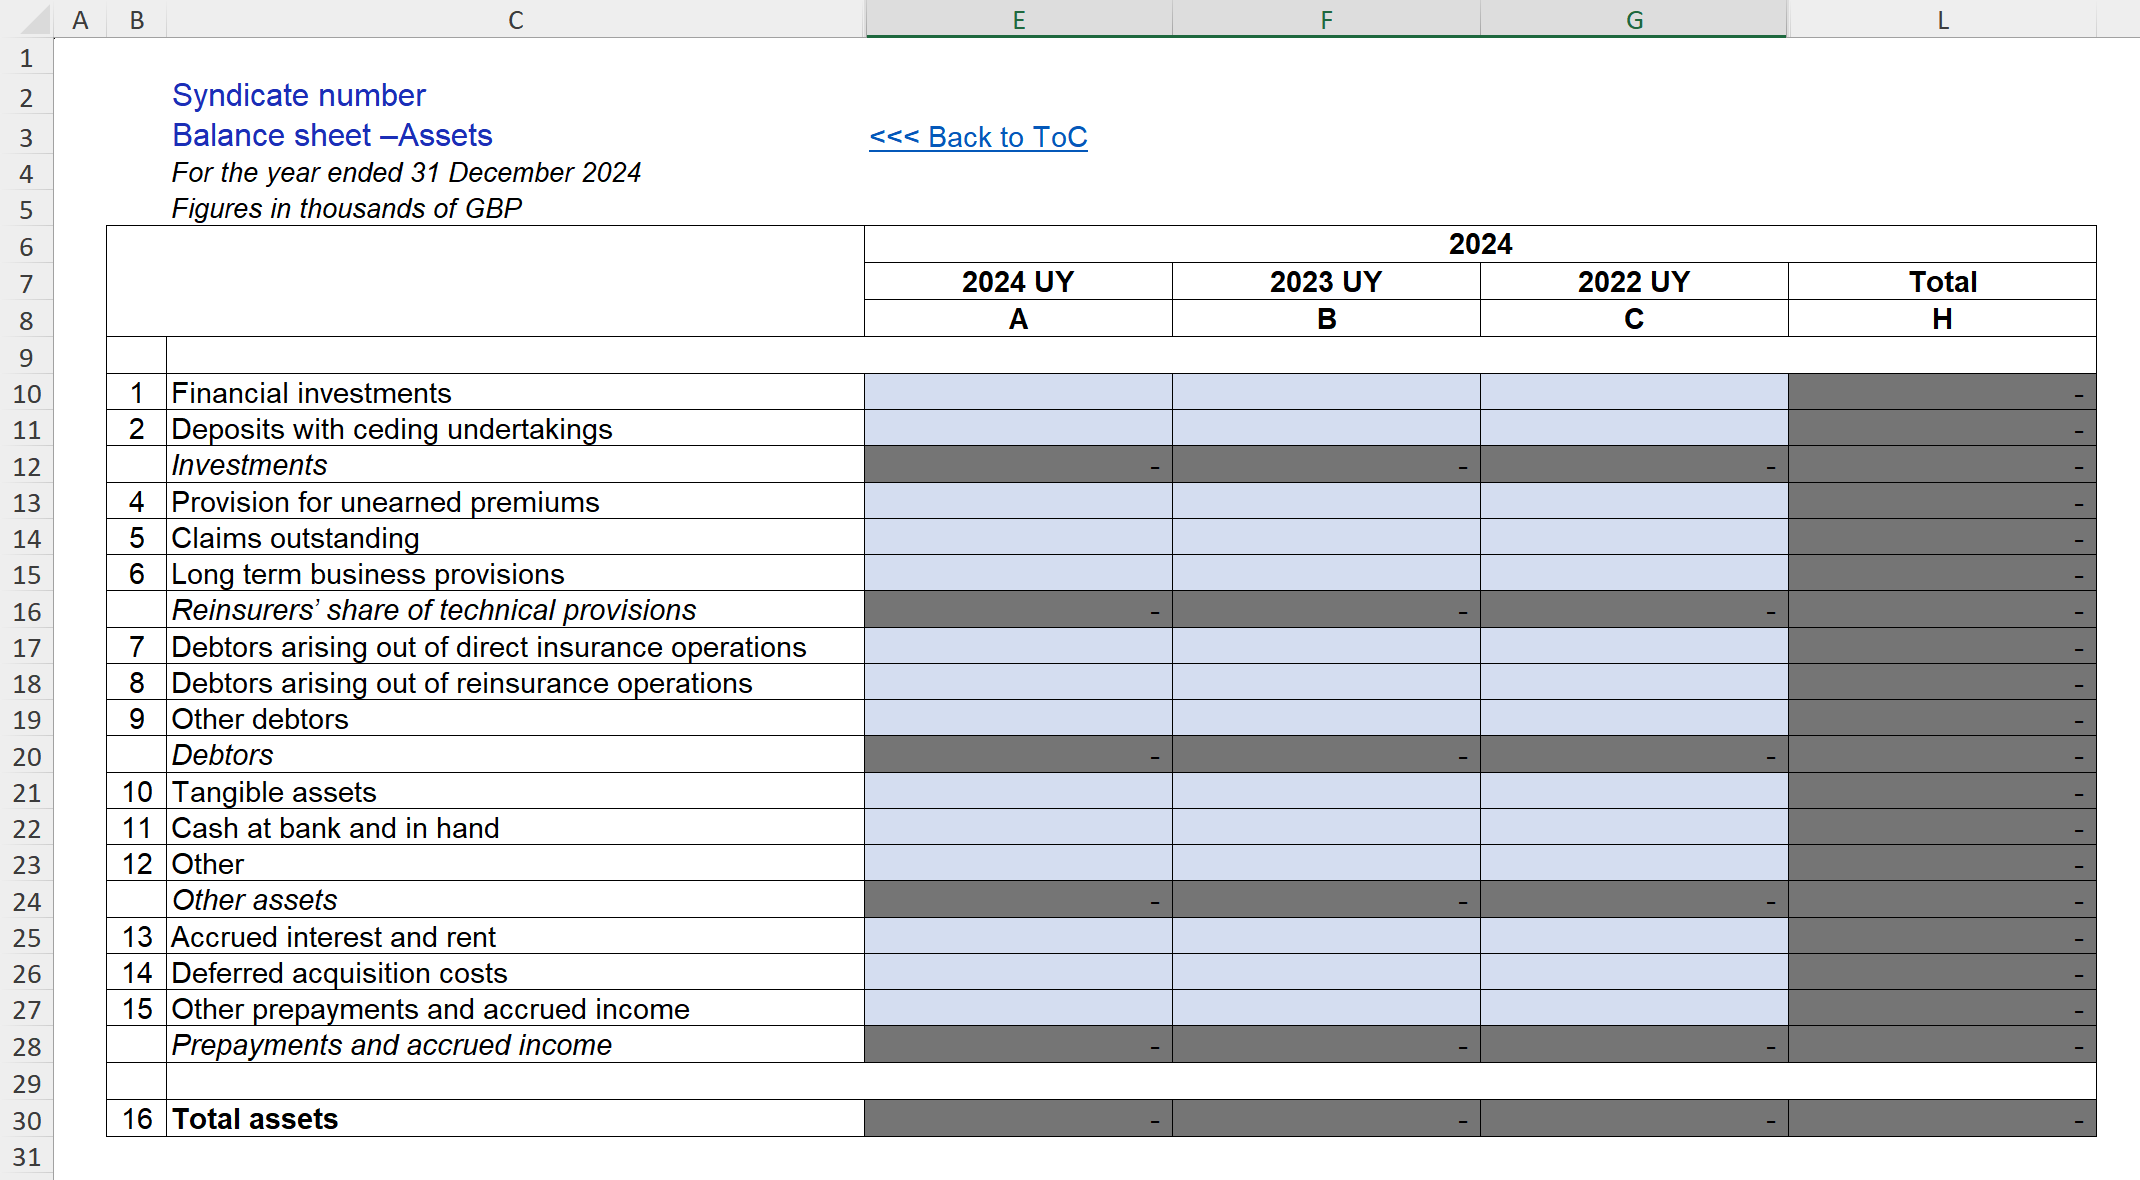
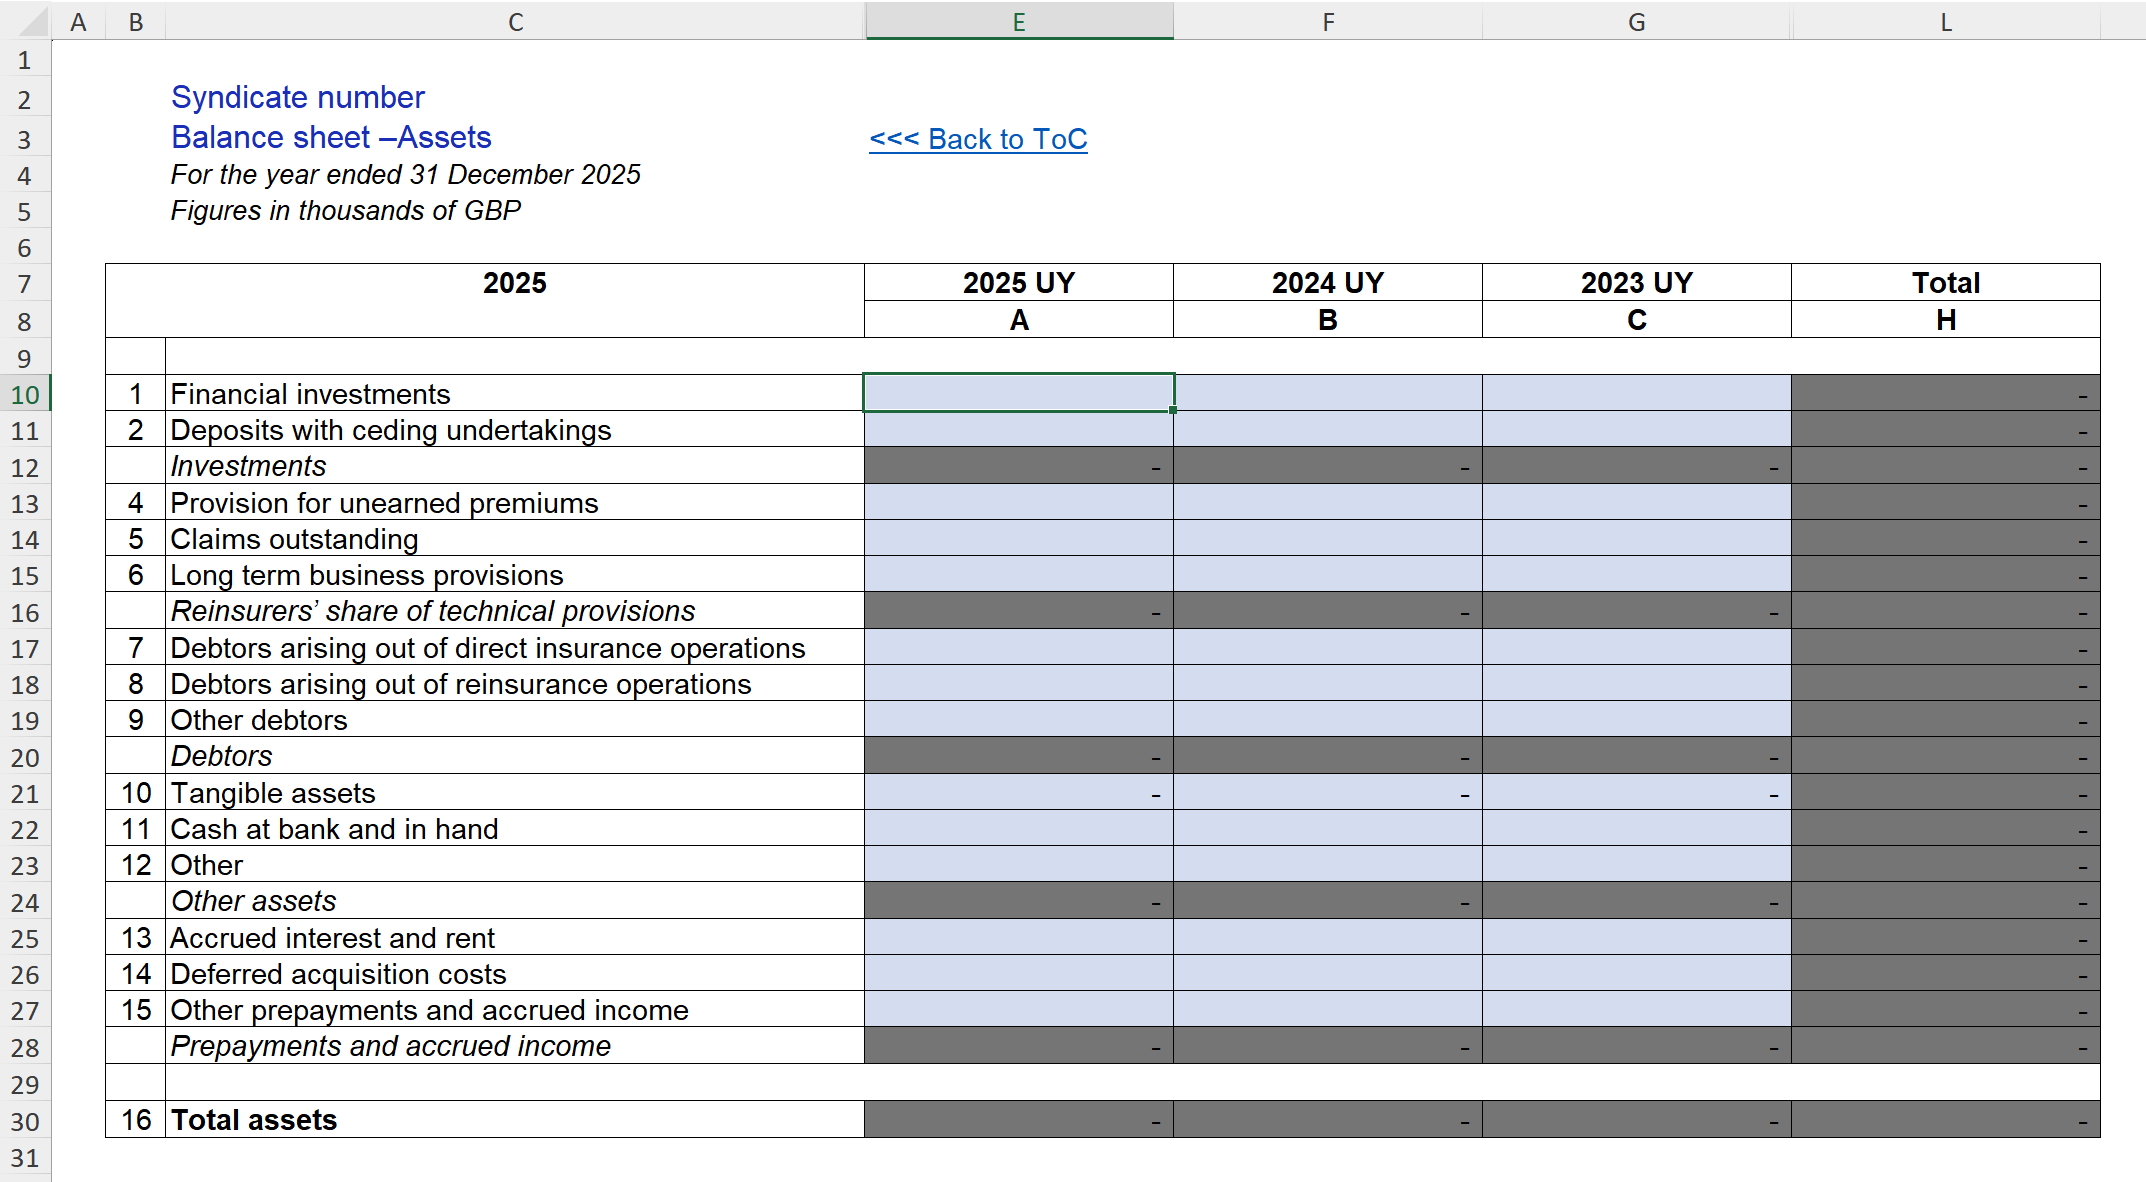
Update Lloyd's Schedule 3 screenshots and text

diff --git a/products/lloyds-schedule-3/index.html b/products/lloyds-schedule-3/index.html
@@ -17,7 +17,7 @@ hero:
   subtitle: "Convert a completed Schedule&nbsp;3 Excel template file to XBRL in seconds. Join the financial firms already benefiting from the power and simplicity of Olive Octagon."
   primary_button:
     text: "Request Free Trial →"
-    url: "Request Free Trial"
+    action: "Request Free Trial"
   secondary_button:
     text: "Schedule Demo"
     action: "Schedule Demo"
@@ -81,6 +81,7 @@ pricing:
         - "XBRL import to Excel functionality"
         - "Unlimited user accounts"
         - "Uses the standard Lloyd's Excel templates"
+        - "Supports both v2.3 and v2.4 templates"
         - "Priority support"
         - "Advanced XBRL-XML verification"
         - "Dedicated account manager"
@@ -148,15 +149,19 @@ screenshots:
       alt: "Screenshot of the Convert to XBRL step"
       title: "Convert to XBRL"
       description: "To convert your completed template file to the final XBRL output file, you simply upload it into your browser and press the relevant button. Remember, all processing is done in your browser - no data is sent to our servers."
+    - file: "import-xbrl.png"
+      alt: "Screenshot of the XBRL import step"
+      title: "Convert XBRL to Excel"
+      description: "You can import an XBRL or iXBRL file back into the standard Lloyd's Excel template file, allowing you to verify that your XBRL file is complete and valid. This also serves as an independent check on third-party produced files for peace of mind."
 
 # FAQ
 faq:
   title: "Frequently Asked Questions"
   questions:
     - question: "When is the next Schedule&nbsp;3 reporting deadline?"
-      answer: "The first Schedule&nbsp;3 XBRL reporting effective date is 31&nbsp;December 2025 and the deadline for uploading to the CoreFiling portal is 5&nbsp;March 2026."
+      answer: "The first Schedule&nbsp;3 XBRL reporting effective date is 31&nbsp;December 2025 and the deadline for uploading to the CoreFiling portal is Thursday 5&nbsp;March 2026. For those syndicates impacted by the v2.4 template release, the deadline has been extended to Friday 13&nbsp;March 2026."
     - question: "How does Olive Octagon's Schedule&nbsp;3 Reporting tool benefit my business?"
-      answer: "Our tool converts the Lloyd's Excel template files into submission-ready reports in seconds, reducing errors and saving time. This allows you to focus on preparing your business data while meeting the technical reporting requirements."
+      answer: "Our tool converts the Lloyd's Excel template files (either v2.3 or v2.4) into submission-ready reports in seconds, reducing errors and saving time. This allows you to focus on preparing your business data while meeting the technical reporting requirements."
     - question: "Is Olive Octagon's Schedule&nbsp;3 Reporting tool secure?"
       answer: "Absolutely. Our solution runs directly in your browser, ensuring that your sensitive data never leaves your machine. This approach helps maintain a high level of data security and privacy."
 
@@ -166,10 +171,10 @@ details:
   cards:
     - title: "Reporting Taxonomy"
       icon: '<svg class="w-8 h-8 text-white" fill="currentColor" viewBox="0 0 16 16"><path fill-rule="evenodd" d="M6 3.5A1.5 1.5 0 0 1 7.5 2h1A1.5 1.5 0 0 1 10 3.5v1A1.5 1.5 0 0 1 8.5 6v1H14a.5.5 0 0 1 .5.5v1a.5.5 0 0 1-1 0V8h-5v.5a.5.5 0 0 1-1 0V8h-5v.5a.5.5 0 0 1-1 0v-1A.5.5 0 0 1 2 7h5.5V6A1.5 1.5 0 0 1 6 4.5zM8.5 5a.5.5 0 0 0 .5-.5v-1a.5.5 0 0 0-.5-.5h-1a.5.5 0 0 0-.5.5v1a.5.5 0 0 0 .5.5zM0 11.5A1.5 1.5 0 0 1 1.5 10h1A1.5 1.5 0 0 1 4 11.5v1A1.5 1.5 0 0 1 2.5 14h-1A1.5 1.5 0 0 1 0 12.5zm1.5-.5a.5.5 0 0 0-.5.5v1a.5.5 0 0 0 .5.5h1a.5.5 0 0 0 .5-.5v-1a.5.5 0 0 0-.5-.5zm4.5.5A1.5 1.5 0 0 1 7.5 10h1a1.5 1.5 0 0 1 1.5 1.5v1A1.5 1.5 0 0 1 8.5 14h-1A1.5 1.5 0 0 1 6 12.5zm1.5-.5a.5.5 0 0 0-.5.5v1a.5.5 0 0 0 .5.5h1a.5.5 0 0 0 .5-.5v-1a.5.5 0 0 0-.5-.5zm4.5.5a1.5 1.5 0 0 1 1.5-1.5h1a1.5 1.5 0 0 1 1.5 1.5v1a1.5 1.5 0 0 1-1.5 1.5h-1a1.5 1.5 0 0 1-1.5-1.5zm1.5-.5a.5.5 0 0 0-.5.5v1a.5.5 0 0 0 .5.5h1a.5.5 0 0 0 .5-.5v-1a.5.5 0 0 0-.5-.5z"/></svg>'
-      content: '<p>Schedule&nbsp;3 data is reported using <a href="https://www.lloyds.com/market-resources/syndicate-accounts-and-financial-reporting#Specifications" target="_blank" rel="noopener" class="text-brand hover:text-brand-dark underline">Lloyd’s XBRL Taxonomy 2025 V2.0</a>.</p><p>Note that this version of the taxonomy was published on 1&nbsp;December 2025 and is different from the version used for the 2024 annual Syndicate Accounts iXBRL reports.</p>'
-    - title: "Common Issues"
+      content: '<p>Schedule&nbsp;3 data is reported using <a href="https://www.lloyds.com/market-resources/syndicate-accounts-and-financial-reporting#Specifications" target="_blank" rel="noopener" class="text-brand hover:text-brand-dark underline">Lloyd’s XBRL Taxonomy 2025 V2.1</a>.</p><p>Note that this version of the taxonomy was published on 12&nbsp;February 2026 and is different from the version used for the 2025 annual Syndicate Accounts iXBRL reports (which stays on V2.0).</p>'
+    - title: "Template version 2.3 vs 2.4"
       icon: '<svg class="w-8 h-8 text-white" fill="currentColor" viewBox="0 0 16 16"><path d="M12.096 6.223A5 5 0 0 0 13 5.698V7c0 .289-.213.654-.753 1.007a4.5 4.5 0 0 1 1.753.25V4c0-1.007-.875-1.755-1.904-2.223C11.022 1.289 9.573 1 8 1s-3.022.289-4.096.777C2.875 2.245 2 2.993 2 4v9c0 1.007.875 1.755 1.904 2.223C4.978 15.71 6.427 16 8 16c.536 0 1.058-.034 1.555-.097a4.5 4.5 0 0 1-.813-.927Q8.378 15 8 15c-1.464 0-2.766-.27-3.682-.687C3.356 13.875 3 13.373 3 13v-1.302c.271.202.58.378.904.525C4.978 12.71 6.427 13 8 13h.027a4.6 4.6 0 0 1 0-1H8c-1.464 0-2.766-.27-3.682-.687C3.356 10.875 3 10.373 3 10V8.698c.271.202.58.378.904.525C4.978 9.71 6.427 10 8 10q.393 0 .774-.024a4.5 4.5 0 0 1 1.102-1.132C9.298 8.944 8.666 9 8 9c-1.464 0-2.766-.27-3.682-.687C3.356 7.875 3 7.373 3 7V5.698c.271.202.58.378.904.525C4.978 6.711 6.427 7 8 7s3.022-.289 4.096-.777M3 4c0-.374.356-.875 1.318-1.313C5.234 2.271 6.536 2 8 2s2.766.27 3.682.687C12.644 3.125 13 3.627 13 4c0 .374-.356.875-1.318 1.313C10.766 5.729 9.464 6 8 6s-2.766-.27-3.682-.687C3.356 4.875 3 4.373 3 4"/><path d="M16 12.5a3.5 3.5 0 1 1-7 0 3.5 3.5 0 0 1 7 0m-3.5-2a.5.5 0 0 0-.5.5v1.5a.5.5 0 0 0 1 0V11a.5.5 0 0 0-.5-.5m0 4a.5.5 0 1 0 0-1 .5.5 0 0 0 0 1"/></svg>'
-      content: "<p>We are currently in contact with Lloyd's in order to get clarification on a few technical questions we have regarding reporting. We will update the FAQs in due course.</p>"
+      content: "<p>If you report overseas deposits as 'other assets' and credit/impairment disclosures are not required (based on your accounting policy and materiality), you can continue using the v2.3 template and do not need to update to v2.4.</p>"
     - title: "Reporting Process"
       icon: '<svg class="w-8 h-8 text-white" fill="currentColor" viewBox="0 0 16 16"><path fill-rule="evenodd" d="M8 5.5a.5.5 0 0 1 .5.5v1.5H10a.5.5 0 0 1 0 1H8.5V10a.5.5 0 0 1-1 0V8.5H6a.5.5 0 0 1 0-1h1.5V6a.5.5 0 0 1 .5-.5"/><path d="M3 0h10a2 2 0 0 1 2 2v12a2 2 0 0 1-2 2H3a2 2 0 0 1-2-2v-1h1v1a1 1 0 0 0 1 1h10a1 1 0 0 0 1-1V2a1 1 0 0 0-1-1H3a1 1 0 0 0-1 1v1H1V2a2 2 0 0 1 2-2"/><path d="M1 5v-.5a.5.5 0 0 1 1 0V5h.5a.5.5 0 0 1 0 1h-2a.5.5 0 0 1 0-1zm0 3v-.5a.5.5 0 0 1 1 0V8h.5a.5.5 0 0 1 0 1h-2a.5.5 0 0 1 0-1zm0 3v-.5a.5.5 0 0 1 1 0v.5h.5a.5.5 0 0 1 0 1h-2a.5.5 0 0 1 0-1z"/></svg>'
       content: "<p>How happy are you with your Schedule&nbsp;3 reporting process?</p><p>Does using the standard Lloyd's Schedule&nbsp;3 template file work for you?</p><p>What other tools would you like to see to improve your reporting process?</p><p>If you have any questions or comments on this then we'd love to hear from you. Please contact us using the form below and we'd be happy to discuss with you further.</p>"
